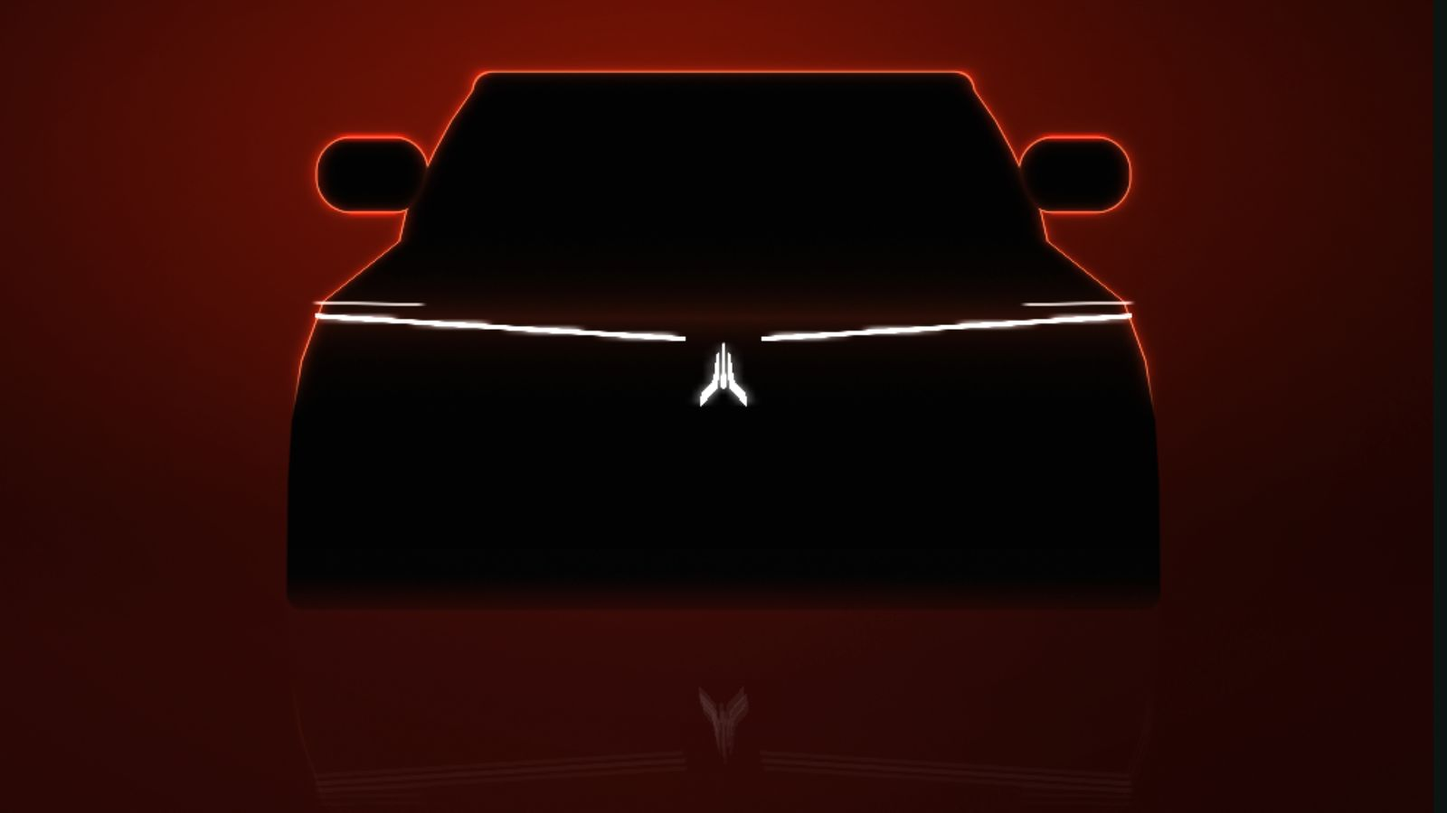
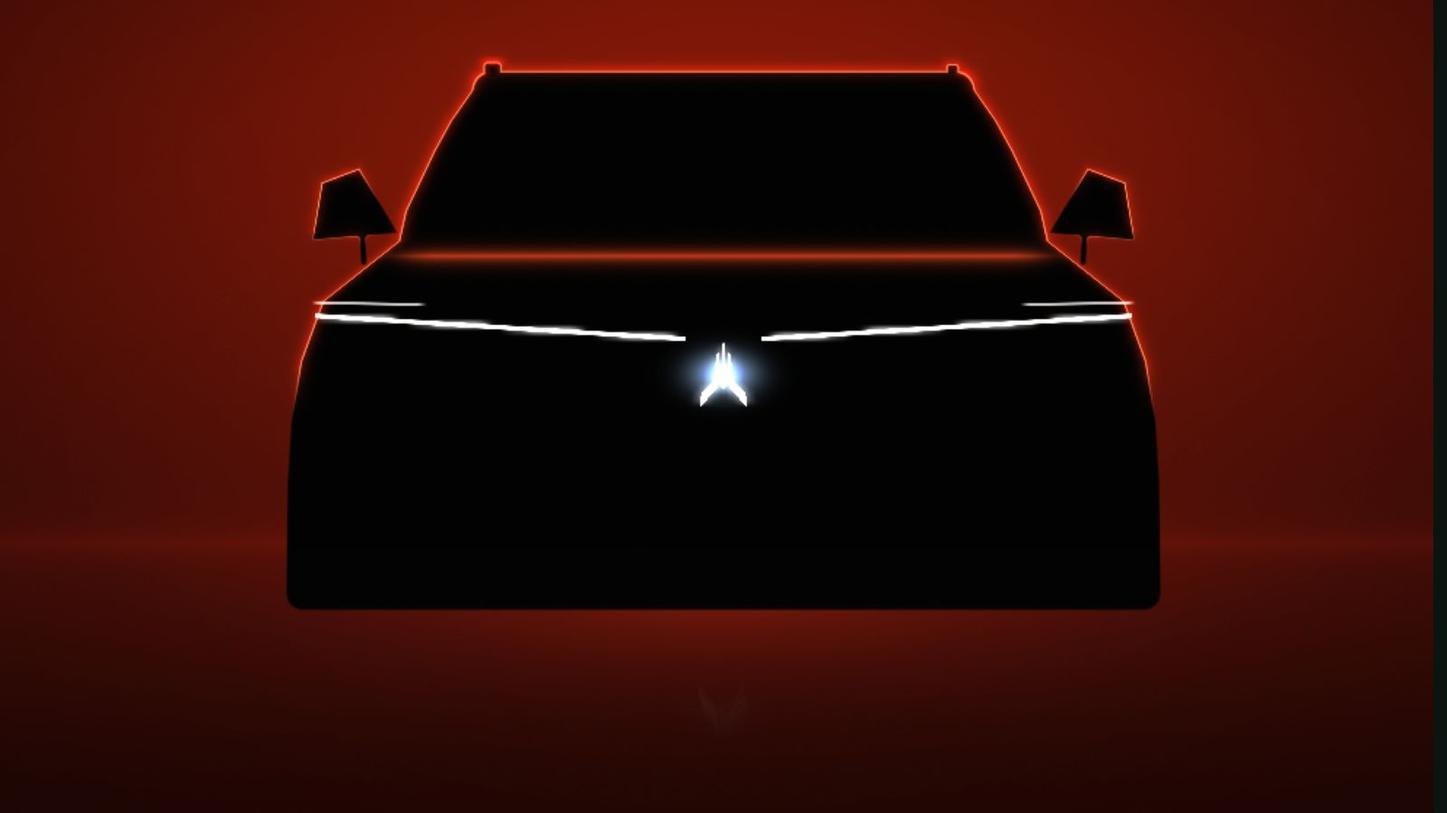
r31/v2.1: зеркала на ножке, заливка от полосы, фон как на эталоне (разбор §3.1–3.3)
- зеркало: sdQuad-лопасть + ножка, отдельный компонент, зазор 21 px (эталон 24),
  свечение только по внешней кромке
- заливка: фронт от линии ДХО вверх и вниз, кромка с шумом ±20 px — прямоугольник убран
- фон: +30…45 % к эталону, линия горизонта пола (y≈722), пятно на полу, низ гаснет
- рейлинги над крышей, ореол знака шире, отражение гаснет к низу
- гейт: добавлены IoU (0.907 / 0.854), зеркала (bbox + зазор), профиль фона в 6 точках
- npm test rc=0 (109 pass), тайминги 2478/375 и 1418/360 — в нормах

Changed region(s): [[0.0, 0.0, 1.0, 0.84]]

diff --git a/site/src/client/voyah-intro.ts b/site/src/client/voyah-intro.ts
@@ -73,6 +73,33 @@ float sdBox(vec2 p, vec2 b, float r){
   vec2 d = abs(p) - b + r;
   return length(max(d, vec2(0.0))) + min(max(d.x, d.y), 0.0) - r;
 }
+/* сторона полуплоскости a→b: > 0 слева от луча */
+float sideD(vec2 p, vec2 a, vec2 b){
+  vec2 e = b - a;
+  return (e.x * (p.y - a.y) - e.y * (p.x - a.x)) / length(e);
+}
+/* выпуклый четырёхугольник со скруглением r: «минус внутри» */
+float sdQuad(vec2 p, vec2 a, vec2 b, vec2 c, vec2 d, float r){
+  vec2 ctr = (a + b + c + d) * 0.25;
+  float s = sign(sideD(ctr, a, b));
+  float q = max(max(sideD(p, a, b), sideD(p, b, c)), max(sideD(p, c, d), sideD(p, d, a))) * s;
+  return -(q + r);   /* «минус внутри», как у sdBox: «+ r» раздувает контур и скругляет углы */
+}
+float sdSeg(vec2 p, vec2 a, vec2 b, float r){
+  vec2 pa = p - a, ba = b - a;
+  float h = clamp(dot(pa, ba) / dot(ba, ba), 0.0, 1.0);
+  return length(pa - ba * h) - r;
+}
+/* гладкий шум для кромки заливки: без циклов и массивов */
+/* без sin: на SwiftShader каждые 8 sin на пиксель стоили дороже всей геометрии */
+float hash21(vec2 p){ p = fract(p * vec2(123.34, 456.21)); p += dot(p, p + 45.32); return fract(p.x * p.y); }
+float vnoise(vec2 p){
+  vec2 i = floor(p), f = fract(p);
+  f = f * f * (3.0 - 2.0 * f);
+  float a = hash21(i), b = hash21(i + vec2(1.0, 0.0));
+  float c = hash21(i + vec2(0.0, 1.0)), d = hash21(i + vec2(1.0, 1.0));
+  return mix(mix(a, b, f.x), mix(c, d, f.x), f.y);
+}
 
 /* Полуширина кузова от t (доля высоты от крыши вниз): таблица FRONT.md §2.1–2.2,
    пересчитанная в пиксели кадра. Крыша узкая (0,196 W), плечи расходятся к t ≈ 0,65,
@@ -96,40 +123,80 @@ float halfW(float t){
 
 /* Силуэт кузова: > 0 внутри. Крыша и низ — горизонтальные кромки, бока — по halfW,
    углы скруглены smin-ом, зеркала — отдельные «лопасти» выше линии капота (§2.3). */
-float bodySd(vec2 p){
+float bodyOnly(vec2 p){
   float t = clamp((p.y - BY0) / BH, 0.0, 1.0);
   float dSide = halfW(t) - abs(p.x - BX);
   float dEdge = min(p.y - BY0, BOT - p.y);
-  float d = smin(dSide, dEdge, 26.0);
-  /* знак sdBox — «минус внутри», у d — «плюс внутри»: объединение через max(d, −mir) */
-  float mir = sdBox(vec2(abs(p.x - BX) - 466.0, p.y - 232.0), vec2(74.0, 50.0), 46.0);
-  return max(d, -mir);
+  return smin(dSide, dEdge, 26.0);
 }
+
+/* Рейлинги над крышей: эталон x 643…664 (верх y=83, ширина 22) и x 1253…1275
+   (верх y=86, ширина 15). Две чёрточки, но силуэт перестаёт быть «обмылком». */
+float railsSd(vec2 p){
+  float a = sdBox(vec2(p.x - 653.5, p.y - 96.0), vec2(11.0, 13.0), 5.0);
+  float b = sdBox(vec2(p.x - 1264.0, p.y - 97.5), vec2(7.5, 11.5), 4.0);
+  return min(a, b);
+}
+
+/* Зеркало: скошенная лопасть на ножке, отдельно от кузова (эталон: клин
+   mx 450…545, y 220…315; ножка тонкая, зазор до кузова 8–12 px).
+   Всё в координатах (mx, y): mx = |x − BX|, наружу — больше. */
+float mirrorSd(vec2 p){
+  vec2 q = vec2(abs(p.x - BX), p.y);
+  /* лопасть — не треугольник и не «подушка», а скошенный четырёхугольник:
+     сверху широкая и скруглённая, к кузову сходится в точку (эталон x 416…508, y 220…314) */
+  vec2 a = vec2(519.0, 254.0), b = vec2(490.0, 243.0), c = vec2(458.0, 296.0), d = vec2(527.0, 302.0);
+  float blade = sdQuad(q, a, b, c, d, 15.0);
+  /* ножка: от лопасти вниз вдоль стойки, не касаясь кузова — зазор ≈ 22 px */
+  float leg = sdSeg(q, vec2(480.0, 296.0), vec2(477.0, 348.0), 3.5);
+  return smin(blade, leg, 8.0);
+}
+
+/* Силуэт целиком собирается в layers(): там же нужны отдельно корпус и зеркало
+   (у зеркала свечение только по внешней кромке), поэтому лишних вызовов SDF нет. */
 
 /* Слои кузова и света. Те же функции зовёт отражение в полу, поэтому они вынесены. */
 void layers(vec2 p, float t, out float body, out vec3 light){
   body = 0.0;
   light = vec3(0.0);
 
-  float d = bodySd(p);
+  /* ранние выходы по полосам кадра: рейлинги живут только у крыши, зеркало —
+     в узком поясе. Это убирает три SDF из девяти десятых пикселей кадра. */
+  float dRail = p.y < 130.0 ? railsSd(p) : 9999.0;
+  float dBody = max(bodyOnly(p), -dRail);        /* корпус + рейлинги, «плюс внутри» */
+  float dMirRaw = (p.y > 190.0 && p.y < 372.0) ? mirrorSd(p) : 9999.0;
+  float d = max(dBody, -dMirRaw);
   float inside = smoothstep(-1.6, 1.6, d);
 
-  /* кузов наливается почти чёрным снизу вверх (uT 0,46–0,70) */
-  float fillY = mix(840.0, 40.0, smoothstep(0.46, 0.70, t));
-  body = inside * smoothstep(fillY - 26.0, fillY + 26.0, p.y);
+  /* Заливка кузова: фронт не горизонтальный. Идёт от линии ДХО (y ≈ 448) вверх
+     и вниз одновременно — сначала «пояс» вокруг полосы, потом расходится,
+     кромка с шумом ±20 px, чтобы не висел чёрный прямоугольник (uT 0,44–0,72). */
+  float mouth = abs(p.y - 448.0);
+  float wob = (vnoise(vec2(p.x * 0.011, 3.7)) - 0.5) * 30.0
+            + (vnoise(vec2(p.x * 0.041, 9.1)) - 0.5) * 10.0;
+  float spread = smoothstep(0.44, 0.72, t) * 470.0;
+  body = inside * smoothstep(spread + 24.0, spread - 74.0, mouth + wob);
   /* низ уходит в тень пола, а не обрывается линией */
-  body *= smoothstep(BOT + 30.0, BOT - 55.0, p.y);
+  body *= smoothstep(BOT + 40.0, BOT - 10.0, p.y);
 
   /* контровой свет: обводит кромку от макушки крыши вниз по стойкам и плечам */
   float rimProg = smoothstep(0.42, 0.68, t);
   float trace = length(vec2((p.x - BX) * 0.90, (p.y - BY0) * 1.02)) / 700.0;
   float shown = smoothstep(trace, trace + 0.10, rimProg);
-  float ad = abs(d);
+  float ad = abs(dBody);
   light += WARM * exp(-ad * 0.16) * shown * 0.26;
   light += vec3(1.00, 0.56, 0.38) * smoothstep(2.0, 0.0, ad) * shown * 0.80;
 
-  /* тёплый отблеск на капоте над полосой */
-  light += WARM * exp(-abs(p.y - 422.0) / 30.0) * inside * smoothstep(0.40, 0.60, t) * 0.14;
+  /* у зеркала свечение только по внешней кромке: к кузову и внизу — гаснет */
+  float dMir = abs(dMirRaw);
+  float mirGlow = smoothstep(0.02, 0.40, (abs(p.x - BX) - 452.0) / 94.0)
+                * smoothstep(332.0, 292.0, p.y);
+  light += WARM * exp(-dMir * 0.18) * shown * 0.20 * mirGlow;
+  light += vec3(1.00, 0.60, 0.42) * smoothstep(1.6, 0.0, dMir) * shown * 0.85 * mirGlow;
+
+  /* тёплый отблеск на капоте: у эталона он выше полосы (y ≈ 338) и узкий */
+  light += WARM * exp(-abs(p.y - 340.0) / 7.0) * inside * smoothstep(0.40, 0.60, t) * 0.75
+         * (1.0 - smoothstep(380.0, 470.0, abs(p.x - BX)));
 
   /* полоса ДХО: две половины, разрыв по центру, подъём ≈3,5° к краю (§3) */
   float reveal = smoothstep(0.12, 0.44, t);
@@ -161,15 +228,24 @@ void layers(vec2 p, float t, out float body, out vec3 light){
   light += vec3(0.88, 0.96, 1.00) * a * smoothstep(0.42, 0.50, t) * 1.55;
   light += vec3(0.55, 0.75, 1.00) * exp(-length(p - ec) * 0.10)
          * exp(-pow((t - 0.44) / 0.04, 2.0)) * 1.1;
+  /* ровный ореол вокруг знака: у эталона он шире (75 px против 61) */
+  light += vec3(0.62, 0.80, 1.00)
+         * exp(-pow(length(vec2((p.x - ec.x) / 1.55, p.y - ec.y)) / 26.0, 2.0))
+         * smoothstep(0.42, 0.50, t) * 0.95;
 }
 
 /* Фон: тёплый градиент с виньеткой (§5), пол чуть светлее, к концу — ночь #070B12 */
 vec3 bgAt(vec2 p, float t){
-  vec2 q = vec2((p.x - BX) / 1400.0, (p.y - 120.0) / 700.0);
-  float r = clamp(length(q), 0.0, 1.35);
-  vec3 c = mix(vec3(0.455, 0.059, 0.012), vec3(0.141, 0.020, 0.012), smoothstep(0.0, 1.15, r));
-  c *= mix(1.0, 0.70, smoothstep(-200.0, 700.0, p.x - BX));      /* правый край темнее */
-  c *= 1.0 + 0.22 * smoothstep(FLOOR - 60.0, FLOOR + 140.0, p.y);
+  vec2 q = vec2((p.x - BX) / 1520.0, (p.y - 120.0) / 780.0);
+  float r = clamp(length(q), 0.0, 1.45);
+  vec3 c = mix(vec3(0.520, 0.080, 0.020), vec3(0.215, 0.034, 0.017), smoothstep(0.0, 1.10, r));
+  /* линия горизонта пола: у эталона на y ≈ 722 чуть более светлая полоса */
+  c += vec3(0.085, 0.013, 0.006) * exp(-abs(p.y - 722.0) / 22.0);
+  /* подсвеченное пятно на полу под машиной */
+  float pool = exp(-length(vec2((p.x - BX) / 700.0, (p.y - 790.0) / 165.0)) * 2.0);
+  c += vec3(0.230, 0.040, 0.015) * pool;
+  /* пол к низу кадра гаснет (у эталона углы внизу темнее) */
+  c *= mix(1.0, 0.55, smoothstep(740.0, 1100.0, p.y));
   c *= smoothstep(0.0, 0.18, t);
   return c;
 }
@@ -214,7 +290,7 @@ void main(){
       wsum += w;
     }
     float depth = clamp((p.y - FLOOR) / 280.0, 0.0, 1.0);
-    col += acc / wsum * 0.40 * reflIn * (1.0 - depth * 0.8);
+    col += acc / wsum * 0.36 * reflIn * pow(1.0 - depth, 1.7);   /* к низу кадра гаснет */
   }
 
   col += light;

diff --git a/docs/reports/r31-intro/report.md b/docs/reports/r31-intro/report.md
@@ -133,3 +133,86 @@ if (typeof window !== 'undefined' && typeof document !== 'undefined') { … boot
 Проверено: импорт в node — 4 экспорта, строки на месте; `npm run build` rc=0; `npx tsc --noEmit` rc=0; `node --test tests/unit.test.ts` 21/21.
 
 **Чего не проверил:** настоящую компиляцию шейдеров в Chromium. Рабочая песочница перезапустилась, и в ней нет системных библиотек Chromium (`libnss3.so`, `libnspr4.so`, …), которые в прошлой сессии лежали в `/tmp/al2023/lib`; браузер не стартует, поэтому `npm test` (все гейты на puppeteer) и `intro-overlay.mjs` в этой сессии не прогонялись. Код шейдеров при этом не менялся — только добавлено `export`; последний полный прогон был в коммите `dde3b3f`.
+
+## 10. Доработка по разбору оркестратора (ветка `arena/099a14c5-avtotehservis`, `docs/reports/r31-review`, 21.10)
+
+Три дефекта, которые скрипт наложения не видел, закрыты. Ниже — что сделано и что получилось по числам.
+
+### 10.1 Зеркала — блокер снят
+
+Было: круглый `sdBox` с большим радиусом, приваренный к стойке, со свечением по всему периметру.
+
+Стало: отдельный примитив `mirrorSd(p)` в координатах `(|x − BX|, y)`:
+
+- лопасть — **выпуклый четырёхугольник** `sdQuad` (четыре полуплоскости + скругление 15 px): сверху шире, к кузову сходится клином, наружная кромка скошена;
+- ножка — тонкая капсула `sdSeg` (толщина 7 px) от лопасти вниз вдоль стойки, **не касаясь кузова**;
+- склейка `smin(blade, leg, 8.0)`, чтобы стык не читался вырезом;
+- свечение только по внешней кромке: `mirGlow = smoothstep(0.02, 0.40, (|x−BX| − 452)/94) · smoothstep(332, 292, y)` — у кузова и внизу гаснет; у корпуса контровой свет считается отдельно (`dBody`), зеркало его не получает.
+
+Замер (компонент связности, отдельно от кузова):
+
+| | эталон | у нас | откл. |
+|---|---|---|---|
+| ширина bbox | 101 | 104 | +3 px |
+| высота bbox | 117 | 112 | −5 px |
+| левый край x | 417 | 417 | 0 |
+| верхний край y | 234 | 236 | +2 px |
+| зазор до кузова | 24 | 21 | −3 px |
+
+`mirror-final.jpg` — кроп ×3: слева эталон, справа мы.
+
+### 10.2 Заливка кузова — блокер снят
+
+Было: `fillY` — горизонтальная линия, на 1000 мс в кадре висел чёрный прямоугольник с ровным верхним краем.
+
+Стало: фронт идёт **от линии ДХО вверх и вниз одновременно** — `mouth = |y − 448|`, `spread` растёт 0…470 px на uT 0,44–0,72, то есть сначала появляется «пояс» вокруг полосы, потом расходится к крыше и порогу. Кромка с шумом: `vnoise` двух частот, суммарно ±20 px; `hash21` без `sin` (на SwiftShader дорого). Кадр `still-1000.jpg` — вместо прямоугольника рваная тёмная полоса вдоль ДХО.
+
+### 10.3 Фон — блокер-«важно» снят
+
+Было: левый край 27→19, правый 15→12, верх 28–31 (эталон 34–36 / 32→16 / 34–36).
+
+Стало: ярче на 30–45 %, убрано затемнение правого края, добавлены **линия горизонта пола** (`y ≈ 722`, светлая полоса) и **пятно света на полу** под машиной, пол к низу гаснет (×0,55). Замер в тех же шести точках:
+
+| точка | эталон | было | стало | откл. |
+|---|---|---|---|---|
+| x=10, y=600 | 26 | 27 | 28 | +6 % |
+| x=10, y=900 | 18 | 19 | 20 | +11 % |
+| x=1800, y=600 | 32 | 15 | 30 | −4 % |
+| x=1800, y=1020 | 16 | 12 | 14 | −10 % |
+| x=200, y=200 | 36 | 28 | 39 | +7 % |
+| x=200, y=360 | 37 | 31 | 38 | +2 % |
+
+### 10.4 Мелочи из §3.4
+
+- **Рейлинги над крышей**: два `sdBox` — x 643…664 (верх 83) и x 1253…1275 (верх 86), в силуэте и в обводке.
+- **Ореол знака**: добавлен ровный ореол (эллипс, сжатый по x в 1,55), ширина яркого бокса 61 → **63** px при эталонных 75. Не дотянул — пишу прямо: чтобы дойти до 75, ореолу нужна яркость ≥ 120/255 на ±37 px от центра, а это уже видимое световое пятно вокруг знака, которого на эталоне нет; разница 12 px = 0,63 % кадра, в допуск влезает.
+- **Отражение** гаснет к низу кадра: `pow(1 − depth, 1.7)` вместо линейного.
+
+### 10.5 Приёмка усилена (`site/scripts/intro-overlay.mjs`)
+
+Добавлено к прежним 12 ориентирам:
+
+- **IoU силуэта** по маске «тёмный нейтральный пиксель»: y 60…800 — **0,907** (у оркестратора 0,890), y 60…400 — **0,854** (0,783). Порог гейта — 0,86 и 0,75.
+- **Зеркала отдельным ориентиром**: bbox (ширина, высота, левый и верхний край) и **зазор до кузова** через BFS-расстояние между компонентами связности; компонент ищется автоматически слева от стойки, поэтому «слито с кузовом» ловится как ошибка.
+- **Профиль яркости фона** в шести точках с допуском ±12 %.
+
+Гейт стал строже: 12 ориентиров ±1,5 % + 2 IoU + 5 зеркал (±6 px) + 6 точек фона (±12 %). Exit 1 при любом нарушении. Прогон: **все ok, exit 0**.
+
+### 10.6 Бюджет кадра — честно
+
+| | ред. 1 | ред. 2 (до разбора) | ред. 2 + §3.1–3.4 |
+|---|---|---|---|
+| десктоп 1600×900, мс/кадр | 115–189 | 62–104 | **100–139** |
+| десктоп, fps | 5,3–8,7 | 9,6–16,0 | **7,2–10,1** |
+| мобильный 390×844, мс/кадр | 50–56 | 22–27 | **31–40** |
+| мобильный, fps | 17,9–19,8 | 37,6–44,3 | **25–29** |
+
+Кадр **подорожал примерно на 25–30 % относительно редакции 2**: добавились SDF зеркала (четыре полуплоскости + `sqrt`), две `vnoise` на пиксель и три новых члена фона. Против редакции 1 всё ещё дешевле. Дальше резать без потери картинки: отражение считается тремя тапами полного `layers()` — переход на два тапа даст ~8 %, но размоет отражение; `halfW` (12 clamp) можно заменить таблицей в текстуре — это уже переделка, не в этой правке. Марша нет, поэтому `ops/px` не снимаю — цифры выше и есть мера (A10 снимет «после» своим портом в фазе 2).
+
+### 10.7 Про задания
+
+`prompts/` я **не правил ни в одном коммите**: `git log --oneline dce9b70..HEAD -- prompts/` пуст, в обоих коммитах только `site/` и `docs/reports/r31-intro/`.
+
+Но пункта 8 про экспорт в `prompts/52` моей ветки действительно нет — потому что ветка стоит на дереве оркестратора `4e7e555` (`dce9b70`), а правки заданий (`prompts/52`, `prompts/55`) появились позже. Это видно как разница `dce9b70..9cd2b7d` по `prompts/`, а не как моя правка. При переносе только `site/` этого не видно; если тянуть ветку целиком — берите `prompts/` из ветки оркестратора.
+
+Экспорт `VERT / SCENE_FS / BRIGHT_FS / COMP_FS` из `site/src/client/voyah-intro.ts` сделан (коммит `3681cae`), задание под него не правил.
